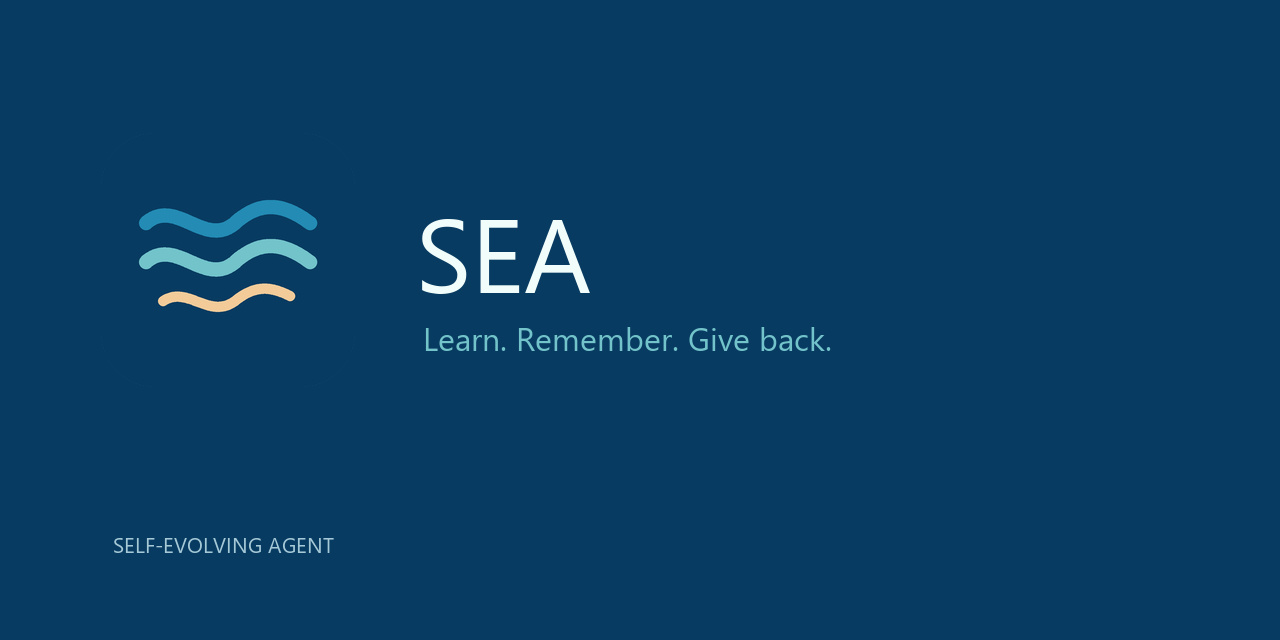
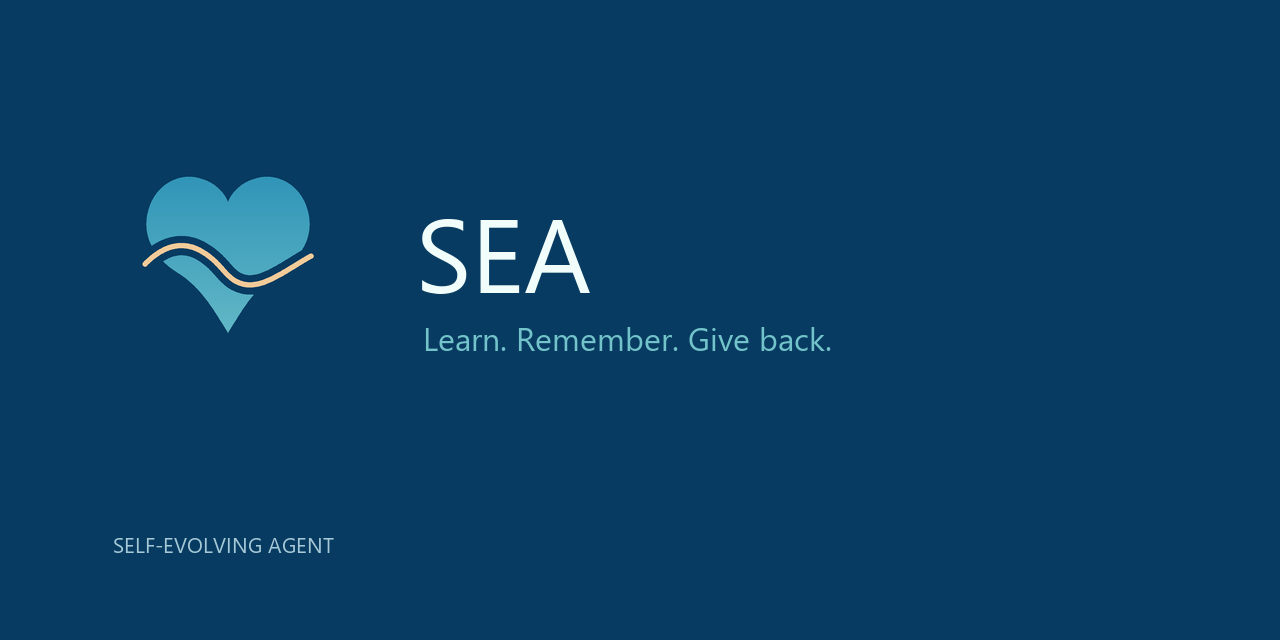
Unify SEA identity with a filled heart wave

Changed region(s): [[0.0938, 0.2812, 0.25, 0.5312]]

diff --git a/worker/index.ts b/worker/index.ts
@@ -32,12 +32,15 @@ function landing(): Response {
 <html lang="en"><head><meta charset="utf-8"><meta name="viewport" content="width=device-width,initial-scale=1">
 <title>SEA Community Registry</title><style>
 body{margin:0;min-height:100vh;display:grid;place-items:center;background:#f6fbfd;color:#103b50;font:16px/1.6 system-ui,sans-serif}
-main{width:min(680px,calc(100% - 48px));padding:44px;border:1px solid #c9e4ee;border-radius:24px;background:white;box-shadow:0 18px 55px #0b66831a}
-.wave{font-size:54px;color:#238bb4}h1{margin:.2rem 0;font-size:2rem}p{color:#436778}a{color:#087fa8}code{background:#edf7fa;padding:.15rem .35rem;border-radius:.3rem}
-</style></head><body><main><div class="wave">≋</div><h1>SEA Community Registry</h1>
+main{width:min(720px,calc(100% - 48px));margin:32px 0;padding:44px;border:1px solid #c9e4ee;border-radius:24px;background:white;box-shadow:0 18px 55px #0b66831a}
+.logo{width:76px;height:76px}h1{margin:.4rem 0;font-size:2rem}p{color:#436778}nav{display:flex;gap:18px;flex-wrap:wrap;margin:22px 0}a{color:#087fa8;font-weight:650}section{margin-top:18px;padding:18px 20px;border-radius:14px;background:#edf7fa}h2{margin:0 0 6px;font-size:1.05rem}code{background:#dceff5;padding:.15rem .35rem;border-radius:.3rem}
+</style></head><body><main><div class="logo"><svg viewBox="0 0 256 256" role="img" aria-label="SEA heart wave"><defs><linearGradient id="ocean" x1="0" y1="0" x2="0" y2="1"><stop stop-color="#238BB4"/><stop offset="1" stop-color="#72C3CA"/></linearGradient></defs><rect width="256" height="256" rx="56" fill="#083B61"/><path d="M128 201 C112 174 99 154 78 141 C54 126 42 104 48 80 C54 54 78 39 102 47 C115 51 124 60 128 70 C132 60 141 51 154 47 C178 39 202 54 208 80 C214 104 202 126 178 141 C157 154 144 174 128 201 Z" fill="url(#ocean)"/><path d="M45 132 C72 105 98 108 124 139 C149 169 176 144 211 124" fill="none" stroke="#083B61" stroke-width="19" stroke-linecap="round"/><path d="M45 132 C72 105 98 108 124 139 C149 169 176 144 211 124" fill="none" stroke="#F2CB99" stroke-width="5" stroke-linecap="round"/></svg></div><h1>SEA Community Registry</h1>
 <p>The shared learning service is online. SEA clients exchange schema-limited, privacy-screened wisdom packages through authenticated requests.</p>
-<p><a href="/health">Health</a> · <a href="/v1/policy">Sharing policy</a> · <a href="https://github.com/Siyezzz/SEA">Source on GitHub</a></p>
-<p>Package and search endpoints require an enrolled SEA client. Opening them directly in a browser will return an authentication error.</p>
+<nav><a href="#status">Status</a><a href="#policy">Sharing policy</a><a href="#source">Source</a></nav>
+<section id="status"><h2>Status</h2><p>Online · registry revision <code>cloudflare-registry/1.0</code>. Machine-readable health: <code>/health</code>.</p></section>
+<section id="policy"><h2>Sharing policy</h2><p>SEA stores reviewed wisdom packages, aggregate outcome feedback, client identifiers, and replay-prevention nonces. It excludes raw conversations, private files, source code, credentials, personal identifiers, and raw execution traces. Machine-readable policy: <code>/v1/policy</code>.</p></section>
+<section id="source"><h2>Open source</h2><p>Read the implementation, protocol, tests, and deployment guide on <a href="https://github.com/Siyezzz/SEA" target="_blank" rel="noreferrer">GitHub</a>.</p></section>
+<p>Package and search API endpoints require an enrolled SEA client.</p>
 </main></body></html>`, { headers: { "Content-Type": "text/html; charset=utf-8", "Cache-Control": "public, max-age=300" } });
 }
 

diff --git a/scripts/build_brand.py b/scripts/build_brand.py
@@ -1,25 +1,34 @@
-"""Render the original SEA sea-surface mark. Pillow is needed only for PNG builds."""
+"""Render SEA's filled heart-wave identity. Pillow is needed only for PNG builds."""
 from pathlib import Path
 from PIL import Image, ImageDraw, ImageFont
 
 ROOT = Path(__file__).resolve().parents[1]
 ASSETS = ROOT / "assets"
 BACKGROUND = "#083B61"
-FOREGROUND = "#72C3CA"
-# Open, flowing wave lines; no closed curl or claw-like silhouette.
-WAVES = [
-    ((46, 91), [((76, 65), (105, 117), (135, 91)), ((164, 65), (188, 75), (210, 91))], "#238BB4", 14),
-    ((46, 130), [((76, 104), (105, 156), (135, 130)), ((164, 104), (188, 114), (210, 130))], FOREGROUND, 14),
-    ((63, 169), [((88, 153), (109, 188), (135, 169)), ((155, 153), (170, 154), (190, 164))], "#F2CB99", 10),
-]
+BLUE = "#238BB4"
+CYAN = "#72C3CA"
+PEACH = "#F2CB99"
+
+HEART_START = (128, 201)
+HEART_CURVES = [((112, 174), (99, 154), (78, 141)),
+                ((54, 126), (42, 104), (48, 80)),
+                ((54, 54), (78, 39), (102, 47)),
+                ((115, 51), (124, 60), (128, 70)),
+                ((132, 60), (141, 51), (154, 47)),
+                ((178, 39), (202, 54), (208, 80)),
+                ((214, 104), (202, 126), (178, 141)),
+                ((157, 154), (144, 174), (128, 201))]
+WAVE_START = (45, 132)
+WAVE_CURVES = [((72, 105), (98, 108), (124, 139)),
+               ((149, 169), (176, 144), (211, 124))]
 
 
-def points(start, curves):
+def curve_points(start, curves, steps=96):
     result = [start]
     p0 = start
     for p1, p2, p3 in curves:
-        for step in range(1, 97):
-            t = step / 96
+        for step in range(1, steps + 1):
+            t = step / steps
             result.append(tuple((1-t)**3*p0[i] + 3*(1-t)**2*t*p1[i] +
                                 3*(1-t)*t*t*p2[i] + t**3*p3[i] for i in (0, 1)))
         p0 = p3
@@ -27,16 +36,30 @@ def points(start, curves):
 
 
 def icon(size):
-    scale = size * 4 / 256
-    image = Image.new("RGBA", (size * 4, size * 4))
+    factor = size * 4 / 256
+    canvas_size = size * 4
+    image = Image.new("RGBA", (canvas_size, canvas_size), BACKGROUND)
+    mask = Image.new("L", image.size, 0)
+    mask_draw = ImageDraw.Draw(mask)
+    mask_draw.polygon([(x * factor, y * factor)
+                       for x, y in curve_points(HEART_START, HEART_CURVES)], fill=255)
+    wave = [(x * factor, y * factor) for x, y in curve_points(WAVE_START, WAVE_CURVES)]
+    cut_radius = 19 * factor / 2
+    for x, y in wave:
+        mask_draw.ellipse((x-cut_radius, y-cut_radius, x+cut_radius, y+cut_radius), fill=0)
+    gradient = Image.new("RGBA", image.size)
+    pixels = gradient.load()
+    top, bottom = (35, 139, 180), (114, 195, 202)
+    for y in range(canvas_size):
+        ratio = y / max(1, canvas_size - 1)
+        color = tuple(round(top[i] * (1-ratio) + bottom[i] * ratio) for i in range(3)) + (255,)
+        for x in range(canvas_size):
+            pixels[x, y] = color
+    image.alpha_composite(Image.composite(gradient, Image.new("RGBA", image.size), mask))
     draw = ImageDraw.Draw(image)
-    draw.rounded_rectangle((0, 0, size*4-1, size*4-1), radius=56*scale, fill=BACKGROUND)
-    for start, curves, color, width in WAVES:
-        coords = [(x*scale, y*scale) for x, y in points(start, curves)]
-        draw.line(coords, fill=color, width=round(width*scale), joint="curve")
-        radius = width*scale/2
-        for x, y in coords:
-            draw.ellipse((x-radius, y-radius, x+radius, y+radius), fill=color)
+    accent_radius = 5 * factor / 2
+    for x, y in wave:
+        draw.ellipse((x-accent_radius, y-accent_radius, x+accent_radius, y+accent_radius), fill=PEACH)
     return image.resize((size, size), Image.Resampling.LANCZOS)
 
 
@@ -49,22 +72,27 @@ def font(size):
 
 def main():
     ASSETS.mkdir(exist_ok=True)
-    paths = []
-    for start, curves, color, width in WAVES:
-        path = f"M{start[0]} {start[1]} " + " ".join(
-            "C" + " ".join(str(n) for point in curve for n in point) for curve in curves)
-        paths.append(f'<path d="{path}" fill="none" stroke="{color}" stroke-width="{width}" stroke-linecap="round"/>')
-    (ASSETS / "sea-icon.svg").write_text(
+    heart = "M128 201 " + " ".join(
+        "C" + " ".join(str(n) for point in curve for n in point) for curve in HEART_CURVES) + " Z"
+    wave = f"M{WAVE_START[0]} {WAVE_START[1]} " + " ".join(
+        "C" + " ".join(str(n) for point in curve for n in point) for curve in WAVE_CURVES)
+    svg = (
         '<svg xmlns="http://www.w3.org/2000/svg" width="256" height="256" viewBox="0 0 256 256" role="img" aria-labelledby="title">'
-        '<title id="title">SEA ocean ripples</title>'
-        f'<rect width="256" height="256" rx="56" fill="{BACKGROUND}"/>' + ''.join(paths) + '</svg>\n', encoding="utf-8")
+        '<title id="title">SEA heart wave</title><defs><linearGradient id="ocean" x1="0" y1="0" x2="0" y2="1">'
+        f'<stop stop-color="{BLUE}"/><stop offset="1" stop-color="{CYAN}"/></linearGradient></defs>'
+        f'<rect width="256" height="256" rx="56" fill="{BACKGROUND}"/>'
+        f'<path d="{heart}" fill="url(#ocean)"/>'
+        f'<path d="{wave}" fill="none" stroke="{BACKGROUND}" stroke-width="19" stroke-linecap="round"/>'
+        f'<path d="{wave}" fill="none" stroke="{PEACH}" stroke-width="5" stroke-linecap="round"/>'
+        '</svg>\n')
+    (ASSETS / "sea-icon.svg").write_text(svg, encoding="utf-8")
     icon(512).save(ASSETS / "sea-icon.png")
     card = Image.new("RGB", (1280, 640), BACKGROUND)
     mark = icon(256)
     card.paste(mark, (100, 132), mark)
     draw = ImageDraw.Draw(card)
     draw.text((416, 180), "SEA", font=font(104), fill="#F0FDFA")
-    draw.text((423, 316), "Learn. Remember. Give back.", font=font(32), fill=FOREGROUND)
+    draw.text((423, 316), "Learn. Remember. Give back.", font=font(32), fill=CYAN)
     draw.text((113, 530), "SELF-EVOLVING AGENT", font=font(21), fill="#A5C9D7")
     card.save(ASSETS / "sea-social.png")
 

diff --git a/docs/branding-and-environments.md b/docs/branding-and-environments.md
@@ -2,7 +2,7 @@
 
 ## Wave identity
 
-SEA uses an original minimal sea-surface mark: blue and cyan ripples with a small warm-gold reflection on deep ocean blue. `assets/sea-icon.svg` is the scalable source export, `assets/sea-icon.png` is the Codex plugin image, and `assets/sea-social.png` is a repository banner/social-card asset. The mark is embedded in the GitHub README. The social-card file does not itself configure GitHub's repository social-preview setting. `scripts/build_brand.py` regenerates the images using Pillow as a build-only dependency.
+SEA uses an original filled heart-wave mark: a blue-to-cyan heart crossed by a thick ocean curve with a warm reflection on deep ocean blue. It connects learning with care for the community feedback loop. `assets/sea-icon.svg` is the scalable source, `assets/sea-icon.png` is the Codex plugin image, and `assets/sea-social.png` is the repository banner/social-card asset. The same vector geometry is embedded in the Registry page. The mark is embedded in the GitHub README. The social-card file does not itself configure GitHub's repository social-preview setting. `scripts/build_brand.py` regenerates the images using Pillow as a build-only dependency.
 
 The desired instance progression is **drop → lake → sea → wave**. Keep this as a future per-instance profile visualization. Codex's plugin manifest currently supplies static image paths; the integration has no verified mechanism to update its displayed icon per user's learning state. The current plugin and GitHub therefore use the requested wave fallback. No badge claims a level of intelligence.
 
